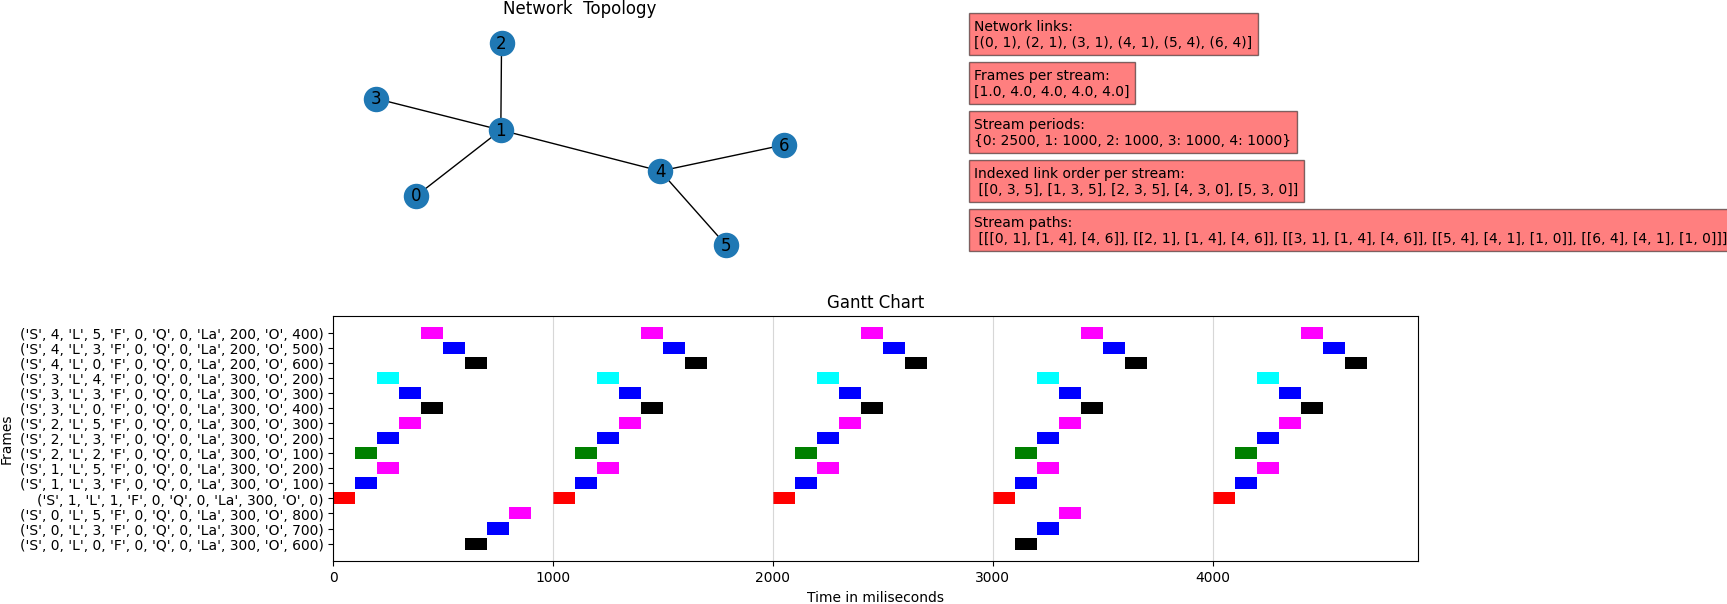
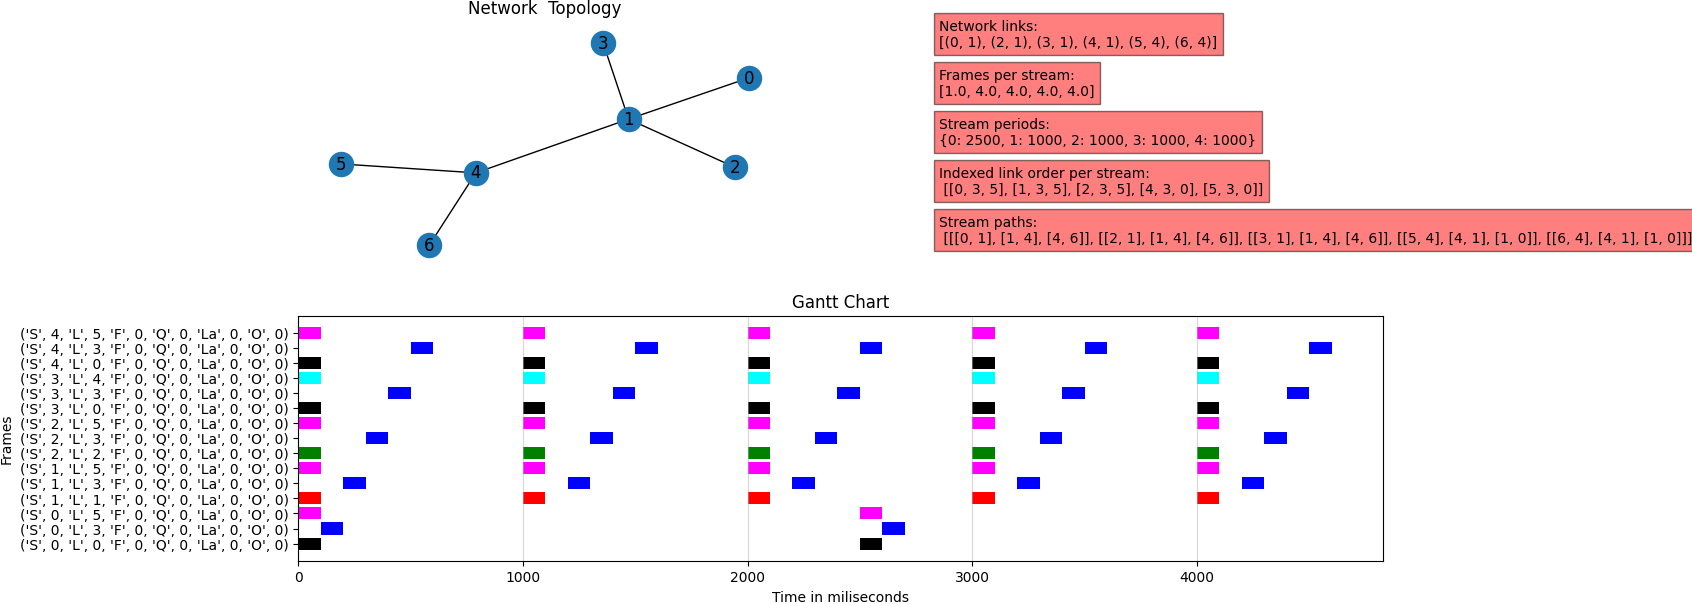
commt 26 de mayo

diff --git a/Heuristic_Generator.py b/Heuristic_Generator.py
@@ -32,10 +32,6 @@ class Heuristic_class :
         self.Streams_size = Streams_size
         self.Streams_paths = Streams_paths
         self.Sort_Stream_Source_Destination = Sort_Stream_Source_Destination
-        #print("self  ",self.Number_of_Streams, self.Network_links, self.Link_order_Descriptor, self.Streams_Period, self.Hyperperiod)
-        #print("2",self.Frames_per_Stream,self.Max_frames, self.Num_of_Frames,self.Model_Descriptor,self.Model_Descriptor_vector)
-        #print("3",self.Deathline_Stream,self.Repetitions, self.Repetitions_Descriptor,self.Frame_Duration)
-        #print("4",self.Stream_Source_Destination,self.Streams_size,self.Streams_paths, self.Sort_Stream_Source_Destination)
 
         self.model = AbstractModel()
         self.model.Streams = Set(initialize= range(self.Number_of_Streams)) 
@@ -47,8 +43,13 @@ class Heuristic_class :
         self.model.Hyperperiod = Param(initialize=Hyperperiod)
         self.model.Max_Syn_Error = Param(initialize=0)
         self.model.Frame_Duration = Param(self.model.Streams, self.model.Frames, self.model.Links, initialize = self.Frame_Duration)
+        self.model.Model_Descriptor = Param(self.model.Streams, self.model.Frames, self.model.Links, initialize= Model_Descriptor)
+        self.model.Deathline_Stream = Param(self.model.Streams, initialize = Deathline_Stream)
+        self.model.Period = Param(self.model.Streams, initialize=Streams_Period)
+        #self.model.Num_of_Frames = Param(self.model.Streams, initialize=Num_of_Frames)
+
+        self.model.Frames_per_Stream = self.Frames_per_Stream
         self.model.Stream_Source_Destination = self.Stream_Source_Destination
-        self.model.Deathline_Stream = self.Deathline_Stream
         self.model.Streams_Period = self.Streams_Period
         self.model.Streams_size = self.Streams_size
         self.model.Streams_paths = self.Streams_paths
@@ -67,12 +68,12 @@ class Heuristic_class :
         self.model.Frame_Offset_up = Var(self.model.Streams, self.model.Links, self.model.Frames, within=NonNegativeIntegers, initialize=0)
         self.model.Streams_Offset = Var(self.model.Streams, within=NonNegativeIntegers, initialize=0 )
 
-        self.model.Queue_total = Var(self.model.Streams,within=NonNegativeIntegers, initialize=4)#{0: 2, 1: 2, 2: 2, 3: 2}
+        #self.model.Queue_total = Var(self.model.Streams,within=NonNegativeIntegers, initialize=4)
         self.model.Sort_Deathline_Stream = {}
         self.model.Queue_Assignment = Var(self.model.Streams, self.model.Links, within=NonNegativeIntegers, initialize=0)
         self.model.Solution = Var(self.model.Streams, self.model.Links, self.model.Frames, within=NonNegativeIntegers, initialize=0)
-        self.model.Lower_bound = Var(self.model.Links, within=NonNegativeIntegers, initialize=0)
-        self.model.Upper_bound = Var(self.model.Links, within=NonNegativeIntegers, initialize=0)
+        self.model.Lower_bound = Var(self.model.Streams, self.model.Links, self.model.Frames, within=NonNegativeIntegers, initialize=0)
+        self.model.Upper_bound = Var(self.model.Streams, self.model.Links, self.model.Frames, within=NonNegativeIntegers, initialize=0)
 
         ### This part is the creation of the instance in the ilp system
         opt = SolverFactory('gurobi')
@@ -83,123 +84,97 @@ class Heuristic_class :
         self.instance.solutions.load_from(self.results)
 
 def Greedy_Heuristic(model):
-    #Ordenar los flows para su tratamiento
-    #Sort_flow(model)
-    for link, value in model.Network_links_Dic.items():
-        model.Queue_Link_Dic[link] = (model.Network_links_Dic[link], model.Num_Queues[link].value)
-    #Cola total de cada uno de los flows
-    #model.Queue_total = List_queue(model)
-    for key_stream, value_stream in model.Sort_Stream_Source_Destination.items():
+    for key_stream in model.Streams:
+        value_stream = (0,0)
         success = False
-        a=0
-        b=1
-        link = (model.Streams_paths_Dic[key_stream][a], model.Streams_paths_Dic[key_stream][b])
-        last_link= (model.Streams_paths_Dic[key_stream][-2], model.Streams_paths_Dic[key_stream][-1])
-        while b <= len(model.Streams_paths_Dic[key_stream])-1:
-            #print("link  ", link, "  last_link  ", last_link, " b ", b, "  len ", len(model.Streams_paths_Dic[key_stream]),)
-            #EL PROBLEMA ESTA EN EL LINK QUE NO ES EL CORRECTO DEL TODO, BUSCAR LA FORMA CORRECTA DE HACERLO 
-            #ASIGNAR A TODOS LOS LINK DE STREAM LA COLA IGUAL A 1
-            key_link = next((key_stream for key_stream, value_stream in model.Network_links_Dic.items() if value_stream == link or value_stream == tuple(reversed(link))),None)
-            model.Queue_Assignment[key_stream, key_link]= 0
-            a=a+1
-            b=b+1
-            if b < len(model.Streams_paths_Dic[key_stream]):
-                link = (model.Streams_paths_Dic[key_stream][a], model.Streams_paths_Dic[key_stream][b])
-        model.Queue_total[key_stream] = 4
         while not success:
             booleano ,link = Schedule_flow(key_stream, value_stream, model)
             Latency_Cal(key_stream, model)
             if booleano == True:
                 success = True
+                print("IF  ++++++++++++++ SOLUTION")
             else:
+                #print("----------------------99999999999999999999999999999999--------------------------")
                 Constraining_engress_port(model, key_stream,link,0)
-                #if (key_stream, link) in model.Queue_Assignment:
-                #    print("?????cola  ",key_stream, link, model.Queue_Assignment[key_stream, link].value )
+
                 model.Queue_Assignment[key_stream, link] = model.Queue_Assignment[key_stream, link] + 1
-                model.Num_Queues[link] = model.Num_Queues[link] + 1
-                if model.Queue_Assignment[key_stream, link].value > model.Queue_total[key_stream].value:
-                    print("++++++++++++++ SOLUTION")
+                #model.Num_Queues[link] = model.Num_Queues[link] + 1
+
+                if model.Queue_Assignment[key_stream, link].value > model.Num_Queues[link].value:
+                    print("ELSE ++++++++++++++ SOLUTION")
                     #success = True
 
 def Schedule_flow(key_stream, value_stream, model):
-    for frame in range(model.Num_of_Frames_Dic[key_stream]): #tramas de cada link
-        #print("----------------------------------------")
-        #BOUND_DIC  generamos una lsita con el lower y el upper bound
-        lower_bound = 0.0
-        Bound_dic = (lower_bound, model.Streams_Period[key_stream])
-        #LINK, bus queda del link, del link de revivo y del envio
+    #for frame in range(model.Num_of_Frames_Dic[key_stream]): #tramas de cada link
+    print("eeeeee ",model.Frames_per_Stream[key_stream])
+    for frame in range(model.Frames_per_Stream[key_stream][0]):
         a = 0
         b = 1
         # Generar un vector con el primer y segundo valor
         send_link = (model.Streams_paths_Dic[key_stream][a], model.Streams_paths_Dic[key_stream][b])
+        #key_send_link = next((key_stream for key_stream, value_stream in model.Network_links_Dic.items() if value_stream == send_link or value_stream == tuple(reversed(send_link))),None)
         link = send_link
+        key_link = next((key_stream for key_stream, value_stream in model.Network_links_Dic.items() if value_stream == link or value_stream == tuple(reversed(link))),None)
         reciving_link= (model.Streams_paths_Dic[key_stream][-2], model.Streams_paths_Dic[key_stream][-1])
         
-        key_send_link = next((key_stream for key_stream, value_stream in model.Network_links_Dic.items() if value_stream == send_link or value_stream == tuple(reversed(send_link))),None)
-        model.Lower_bound[key_send_link] = lower_bound
-        model.Upper_bound[key_send_link] = model.Streams_Period[key_stream]
+        model.Lower_bound[key_stream, key_link, frame] = 0.0
+        model.Upper_bound[key_stream, key_link, frame] = model.Streams_Period[key_stream]
+        #lower_bound = 0.0
+        #Bound_dic = (lower_bound, model.Streams_Period[key_stream])
         #print(f"Lower_bound[{key_send_link}] = {value(model.Lower_bound[key_send_link])}")
         #print(f"Upper_bound[{key_send_link}] = {value(model.Upper_bound[key_send_link])}")
 
         contador=1
-        print("contador  ",len(model.Streams_paths_Dic[key_stream]), "   ",model.Streams_paths_Dic[key_stream])
-        while contador < len(model.Streams_paths_Dic[key_stream]):
-            link_anterior = (model.Streams_paths_Dic[key_stream][a-1],model.Streams_paths_Dic[key_stream][b-1])
-            key_link = next((key_stream for key_stream, value_stream in model.Network_links_Dic.items() if value_stream == link or value_stream == tuple(reversed(link))),None)
-            key_link_anterior = next((key_stream for key_stream, value_stream in model.Network_links_Dic.items() if value_stream == link_anterior or value_stream == tuple(reversed(link_anterior))),None)
-
+        #while contador < len(model.Streams_paths_Dic[key_stream]):
+        while link != reciving_link:
+            print("contador ", contador, len(model.Streams_paths_Dic[key_stream]))
             #Ecuacion 45
-            lower_bound = Lower_bound(frame, send_link, link, link_anterior, model, key_stream, key_link, key_link_anterior)
-            #print("lower bound ",lower_bound)
-            model.Lower_bound[key_send_link] = lower_bound
-            Bound_dic = (lower_bound, Bound_dic[1])
-
-            model.Lower_bound[key_link] = lower_bound
-            model.Upper_bound[key_link] = Bound_dic[1]
-            #print(f"Lower_bound[{key_link}] = {value(model.Lower_bound[key_link])}")
-            #print(f"Upper_bound[{key_link}] = {value(model.Upper_bound[key_link])}")
+            link_anterior = (model.Streams_paths_Dic[key_stream][a-1],model.Streams_paths_Dic[key_stream][b-1])
+            key_link_anterior = next((key_stream for key_stream, value_stream in model.Network_links_Dic.items() if value_stream == link_anterior or value_stream == tuple(reversed(link_anterior))),None)          
+            lower_bound = Lower_bound(send_link, link, model, key_stream, frame, key_link, key_link_anterior)
+            model.Lower_bound[key_stream, key_link, frame] = lower_bound
+            #print(f"Lower_bound[{key_stream, key_link, frame}] = {value(model.Lower_bound[key_stream, key_link, frame])}")
+            #Bound_dic = (lower_bound, Bound_dic[1])
             
             #Earliest_offset
-            tiempo = Earliest_offset(link,Bound_dic,model, key_stream, frame, key_link, key_stream)
+            tiempo = Earliest_offset(model, frame, key_link, key_stream)
             #print("stream   ",key_stream,"   key link  ",key_link, "  a  ", a , "  b  ",b)
             #print("tiempo   ", tiempo, "     Bound_dic   ",Bound_dic, "flexibility_solution   ",flexibility_solution.get(key_link))
             
-            model.Solution[key_stream, key_link, frame] = tiempo[0]
-            print(f"Solution[{key_stream}, {key_link}, {frame}] = {value(model.Solution[key_stream, key_link, frame])}")
-            #Frame offset, podria hacerse con la solucion
-            model.Frame_Offset[key_stream, key_link, frame] = tiempo[0] 
-            model.Frame_Offset_up[key_stream, key_link, frame] = tiempo[-1]
-            #print(f"Frame_Offset_up[{key_stream}, {key_link}, {frame}] = {value(model.Frame_Offset_up[key_stream, key_link, frame])}")
+            #model.Solution[key_stream, key_link, frame] = tiempo[0]
+            #print(f"Solution[{key_stream}, {key_link}, {frame}] = {value(model.Solution[key_stream, key_link, frame])}")
+            print("tiempo  ", tiempo[0], "upper ", model.Upper_bound[key_stream, key_link, frame].value)
+            print("tiempo 2 ", tiempo[1])
 
-
-            if value(model.Solution[key_stream, key_link, frame]) == float('inf'):
+            #if value(model.Solution[key_stream, key_link, frame]) == float('inf'):
+            if tiempo[0] == float('inf'):
                 return False, key_link
 
-            elif value(model.Solution[key_stream, key_link, frame]) <= value(model.Upper_bound[key_link]):#model.Streams_Period[key_stream]: #//no esta bien compara el tiempo escogido con el bound dic 
-                Add_Solution(key_link, tiempo, model)
+            #elif value(model.Solution[key_stream, key_link, frame]) <= value(model.Upper_bound[key_link]):
+
+            elif tiempo[0] <= model.Upper_bound[key_stream, key_link, frame].value:
+                #model.Streams_Period[key_stream]: #//no esta bien compara el tiempo escogido con el bound dic 
+                Add_Solution(key_link, tiempo, model, key_stream)
                                 
-                model.Lower_bound[key_link] = model.Solution[key_stream, key_link, frame]
-                model.Upper_bound[key_link] = model.Solution[key_stream, key_link, frame]+100
+                model.Lower_bound[key_stream, key_link, frame] = tiempo[0] #model.Solution[key_stream, key_link, frame]
+                model.Upper_bound[key_stream, key_link, frame] = tiempo[1] #model.Solution[key_stream, key_link, frame]+100
                 #print(f"Lower_bound[{key_link}] = {value(model.Lower_bound[key_link])}")
                 #print(f"Upper_bound[{key_link}] = {value(model.Upper_bound[key_link])}")
 
                 #model.Ocupacion_Queue[key_link,model.Queue_Assignment[key_stream, key_link]] = tiempo
-                Bound_dic = tiempo
+                #Bound_dic = tiempo
                 a += 1
                 b += 1
-                #print("111 else if ",a,b)
-                if b >= len(model.Streams_paths_Dic[key_stream]):
-                    #print("stream paths   ",model.Streams_paths_Dic[key_stream])
-                    #print("Queue_Assignment     ",model.Queue_Assignment[key_stream, key_link])
-                    return True, key_link
-                next_link = (model.Streams_paths_Dic[key_stream][a], model.Streams_paths_Dic[key_stream][b])
-                link = next_link
-                key_link = next((key_stream for key_stream, value_stream in model.Network_links_Dic.items() if value_stream == link or value_stream == tuple(reversed(link))),None)
-                model.Upper_bound[key_link] = Latest_queue_available_time(key_link, model.Streams_Period[key_stream])
-                print(f"Upper_bound[{key_link}] = {value(model.Upper_bound[key_link])}")
+                #print("****************************111 else if a  ",a," b ",b," len ",len(model.Streams_paths_Dic[key_stream]))
+                if b < len(model.Streams_paths_Dic[key_stream]):
+                    next_link = (model.Streams_paths_Dic[key_stream][a], model.Streams_paths_Dic[key_stream][b])
+                    link = next_link
+                    key_link = next((key_stream for key_stream, value_stream in model.Network_links_Dic.items() if value_stream == link or value_stream == tuple(reversed(link))),None)
+                    model.Upper_bound[key_stream, key_link, frame] = Latest_queue_available_time(key_link, model.Streams_Period[key_stream])
+                    #print(f"Upper_bound[{key_stream, key_link, frame}] = {value(model.Upper_bound[key_stream, key_link, frame])}")
                 contador +=1
             else:
-                #print("22222 else   ")
+                print("22222 else   ")
                 a -= 1
                 b -= 1
                 link_next = (model.Streams_paths_Dic[key_stream][a], model.Streams_paths_Dic[key_stream][b])
@@ -207,27 +182,26 @@ def Schedule_flow(key_stream, value_stream, model):
                 key_link_next = next((key_stream for key_stream, value_stream in model.Network_links_Dic.items() if value_stream == link or value_stream == tuple(reversed(link))),None)
                 print("**********  link_next  ",link_next, "  key_link_next  ",key_link_next)
                 if key_link_next is not None:
-                    model.Solution[key_stream, key_link_next, frame] = Earliest_queue_available_time(key_link, key_link_next, model.Streams_Period[key_stream])
+                    model.Lower_bound[key_stream, key_link_next, frame] = Earliest_queue_available_time(key_link_next, model.Streams_Period[key_stream])
                 contador -=1
 
     return True, key_link #, Result_offsets 
 
-def Add_Solution(key_link, tiempo, model): #Es por las posibles repeticiones dentro de una trama 
-    print("-----------")
-    print("key link ",key_link)
-    print("timepo ", tiempo)
-    print("Hyperperiod", model.Hyperperiod.value)
-    print("period ", model.Streams_Period)
+def Add_Solution(key_link, tiempo, model, key_stream): #Es por las posibles repeticiones dentro de una trama 
+    #print("-----------")
+    #print("key link ",key_link)
+    #print("timepo ", tiempo)
+    #print("Hyperperiod", model.Hyperperiod.value)
+    #print("period ", model.Streams_Period)
     #resultado = model.Hyperperiod / model.Streams_Period[key_link]
     resultado = 1
-    print("resultado   ",resultado)
     i = 0
     while i < resultado:
         if flexibility_solution.get(key_link) is None:
             flexibility_solution[key_link] = [tiempo]
         else:
             flexibility_solution[key_link].append(tiempo)
-        tiempo = (tiempo[0] + model.Streams_Period[key_link], tiempo[1]+model.Streams_Period[key_link])
+        tiempo = (tiempo[0] + model.Streams_Period[key_stream], tiempo[1]+model.Streams_Period[key_stream])
         i += 1
 
 def Latency_Cal(key_stream, model):
@@ -242,67 +216,67 @@ def Latency_Cal(key_stream, model):
         model.Latency[key_stream] = model.Frame_Offset_up[key_stream,key_link_end,0].value - model.Frame_Offset[key_stream,key_link_ini,0].value
         contador +=1
 
-def Earliest_offset(link, Bound_dic, model, stream, frame, key_link, key_stream):
+def Earliest_offset(model, frame, key_link, key_stream):
     #EARLIEST OFFSET
     tiempo= 0.0
     #print("link  ", link,"Streams  ",stream)
     #print("Bound_dic   ",Bound_dic[0])
-    #print("flexibility_solution   ",flexibility_solution.get(link))
+    print("flexibility_solution   ",flexibility_solution.get(key_link))
     #if model.Ocupacion_Queue[key_link, model.Queue_Assignment[key_stream, key_link]] is not None:
     #link_order = tuple(sorted(link))
+    print(f"Lower_bound[{key_stream, key_link, frame}] = {value(model.Lower_bound[key_stream, key_link, frame])}")
+    a = model.Lower_bound[key_stream, key_link, frame].value
     if flexibility_solution.get(key_link)is not None:
-        a = int(Bound_dic[0])
         b = int(flexibility_solution[key_link][-1][-1])
         mayor_max = max(a, b)
         #print(mayor_max)
-        #print(" ----------- mayor   ",mayor_max)
+        print(" ----------- mayor   ",mayor_max)
         #print("len ",len(flexibility_solution[link]))
         if len(flexibility_solution[key_link]) == 1:
             #print("value  ",flexibility_solution[link][-1])
-            tiempo = (mayor_max, flexibility_solution[key_link][-1][-1]+model.Frame_Duration[stream,frame,key_link])
+            tiempo = (mayor_max, flexibility_solution[key_link][-1][-1]+model.Frame_Duration[key_stream, frame, key_link])
         else:
             #print("value  ",flexibility_solution[link][-1])
-            tiempo = (mayor_max, mayor_max+model.Frame_Duration[stream,frame,key_link])
+            tiempo = (mayor_max, mayor_max+model.Frame_Duration[key_stream,frame,key_link])
         #print("existe",tiempo)
 
     else:
-        tiempo = (Bound_dic[0],Bound_dic[0]+model.Frame_Duration[stream,frame,key_link])
+        tiempo = (a, a+model.Frame_Duration[key_stream,frame,key_link])
         #print("no existe ",tiempo)
     return tiempo
 
 def Latest_queue_available_time(key_link, Streams_Period):
     if flexibility_solution.get(key_link)is not None:
         tiempo = flexibility_solution[key_link][-1][-1]
-        #print("existe ",tiempo)
+        print("existe ",tiempo, key_link)
     else:
         tiempo = Streams_Period
         #print("no existe ",tiempo)
     return tiempo
 
-def Earliest_queue_available_time(key_link,key_link_next, Streams_Period):
-    if flexibility_solution.get(key_link_next)is not None:
-        tiempo = flexibility_solution[key_link_next][-1][-1]
+def Earliest_queue_available_time(key_link, Streams_Period):
+    if flexibility_solution.get(key_link)is not None:
+        tiempo = flexibility_solution[key_link][-1][-1]
         #print("existe ",tiempo)
     else:
         tiempo = Streams_Period
     return tiempo
 
-def Lower_bound(frame, send_link, link, link_anterior, model,stream, key_link, key_link_anterior):
-    print("--link  ",link, "frame   ",frame, "  send_link  ",send_link)
+def Lower_bound(send_link, link, model, key_stream, frame, key_link, key_link_anterior):
+    print("--link  ",link, "frame   ",frame, "  send_link  ",send_link, "  key_link_anterior  ",key_link_anterior)
     if frame == 0 and link == send_link:
         return 0.0
     elif frame >= 1  and link == send_link:
     #    print("2")
-        return flexibility_solution[key_link][-1][0] + model.Frame_Duration[stream,frame,key_link]
+        return flexibility_solution[key_link][-1][0] + model.Frame_Duration[key_stream, frame, key_link]
     elif frame == 0 and link != send_link:
-    #    print(" 3  ",link,"   ",send_link)
-        print("flexi  ",flexibility_solution[key_link_anterior])
-        print("duration   ",model.Frame_Duration[stream,frame,key_link])
-        return flexibility_solution[key_link_anterior][-1][0] + model.Frame_Duration[stream,frame,key_link] +  model.Max_Syn_Error    
+        #print(" 3  ",link,"   ",send_link)
+        #print("flexi  ",flexibility_solution[key_link_anterior])
+        return flexibility_solution[key_link_anterior][-1][0] + model.Frame_Duration[key_stream,frame,key_link] +  model.Max_Syn_Error    
     else:
     #    print("4  ")
-        a = flexibility_solution[key_link][-1][0] + model.Frame_Duration[stream,frame,key_link]
-        b = flexibility_solution[key_link_anterior][frame-1][0] + model.Frame_Duration[stream,frame,key_link] +  model.Max_Syn_Error
+        a = flexibility_solution[key_link][-1][0] + model.Frame_Duration[key_stream,frame,key_link]
+        b = flexibility_solution[key_link_anterior][frame-1][0] + model.Frame_Duration[key_stream,frame,key_link] +  model.Max_Syn_Error
         return max(a,b)
 
 #Listar colas asociadas a la clave del link

diff --git a/Heuristic_Visualizer.py b/Heuristic_Visualizer.py
@@ -12,7 +12,7 @@ from Heuristic_Generator import *
 import time
 from read import *
 
-input = "input6"
+input = "input5-2"
 file_input = "Solutions/"+input+".json"
 
 def Heuristic_results_visualizer(instance, Model_Descriptor_vector):
@@ -24,10 +24,10 @@ def Heuristic_results_visualizer(instance, Model_Descriptor_vector):
         for j in instance.Links:
             for k in instance.Frames:
                 if Model_Descriptor_vector [i][k][j] :
-                    print("The offset of stream", i, "link", j, "frame", k, "is",instance.Frame_Offset[i,j,k].value)
-                    frame_indicator = ("S", i, "L", j, "F", k, "Q",int(instance.Queue_Assignment[i, j].value), "La",int(instance.Latency[i].value), "O",int(instance.Frame_Offset[i,j,k].value))
-                    helper = { "Task" :str(frame_indicator), "Start": instance.Frame_Offset[i,j,k].value, "Finish" : instance.Frame_Offset_up[i,j,k].value, "Color" : j }
-                    clean_offset = { "Task" :str(frame_indicator), "Start": instance.Frame_Offset[i,j,k].value }
+                    print("The offset of stream", i, "link", j, "frame", k, "is",instance.Lower_bound[i,j,k].value)
+                    frame_indicator = ("S", i, "L", j, "F", k, "Q",instance.Queue_Assignment[i, j].value, "La",int(instance.Latency[i].value), "O",int(instance.Frame_Offset[i,j,k].value))
+                    helper = { "Task" :str(frame_indicator), "Start": instance.Lower_bound[i,j,k].value, "Finish" : instance.Upper_bound[i,j,k].value, "Color" : j }
+                    clean_offset = { "Task" :str(frame_indicator), "Start": instance.Lower_bound[i,j,k].value }
                     Result_offsets.append(helper)
                     Clean_offsets_collector.append(clean_offset)
                     if instance.Frame_Offset[i,j,k].value != 1 :
